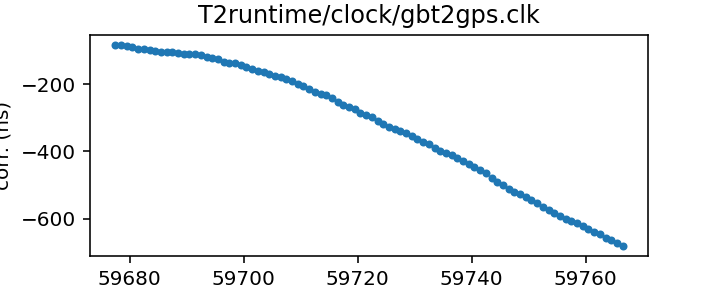
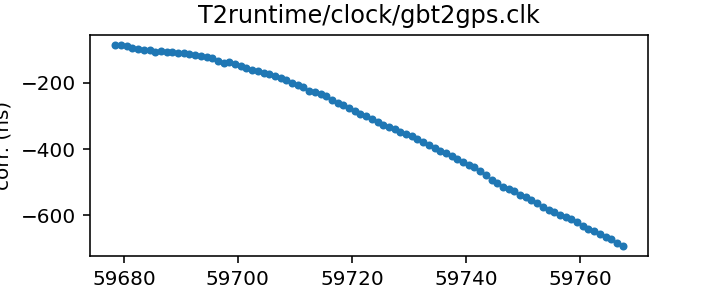
Routine gh-pages update from Github action Fri Jul  8 20:38:18 UTC 2022

diff --git a/status.md b/status.md
@@ -13,17 +13,17 @@ name of each clock file links to a page with more details.
 
 | Name | File | Corrections start | Corrections end | Last check date | Last check result 
 |:--- |:--- | --- | --- | --- |:--- 
-| [GPS to UTC](T2runtime/clock/gps2utc.clk.html) | `T2runtime/clock/gps2utc.clk` | 1993-01-01 MJD 48988.0 | 2022-05-30 MJD 59729.0 | 2022-07-07 | Unchanged 
-| [GPS to UTC (Combined Clock)](T2runtime/clock/gps2utc_cc.clk.html) | `T2runtime/clock/gps2utc_cc.clk` | 1993-01-01 MJD 48988.0 | 2022-05-30 MJD 59729.0 | 2022-07-07 | Unchanged 
-| [GPS to UTC (Corrected)](T2runtime/clock/gps2utc_c0p.clk.html) | `T2runtime/clock/gps2utc_c0p.clk` | 2010-12-29 MJD 55559.0 | 2022-05-30 MJD 59729.0 | 2022-07-07 | Unchanged 
-| [GBT](tempo/clock/time_gbt.dat.html) | `tempo/clock/time_gbt.dat` | 2000-12-31 MJD 51909.5 | 2022-07-06 MJD 59766.5 | 2022-07-07 | Updated 
-| [GBT (TEMPO2 converted from TEMPO)](T2runtime/clock/gbt2gps.clk.html) | `T2runtime/clock/gbt2gps.clk` | 2000-12-31 MJD 51909.5 | 2022-07-06 MJD 59766.5 | 2022-07-07 | Updated 
+| [GPS to UTC](T2runtime/clock/gps2utc.clk.html) | `T2runtime/clock/gps2utc.clk` | 1993-01-01 MJD 48988.0 | 2022-05-30 MJD 59729.0 | 2022-07-08 | Unchanged 
+| [GPS to UTC (Combined Clock)](T2runtime/clock/gps2utc_cc.clk.html) | `T2runtime/clock/gps2utc_cc.clk` | 1993-01-01 MJD 48988.0 | 2022-05-30 MJD 59729.0 | 2022-07-08 | Unchanged 
+| [GPS to UTC (Corrected)](T2runtime/clock/gps2utc_c0p.clk.html) | `T2runtime/clock/gps2utc_c0p.clk` | 2010-12-29 MJD 55559.0 | 2022-05-30 MJD 59729.0 | 2022-07-08 | Unchanged 
+| [GBT](tempo/clock/time_gbt.dat.html) | `tempo/clock/time_gbt.dat` | 2000-12-31 MJD 51909.5 | 2022-07-07 MJD 59767.5 | 2022-07-08 | Updated 
+| [GBT (TEMPO2 converted from TEMPO)](T2runtime/clock/gbt2gps.clk.html) | `T2runtime/clock/gbt2gps.clk` | 2000-12-31 MJD 51909.5 | 2022-07-07 MJD 59767.5 | 2022-07-08 | Updated 
 | [Jodrell Bank](T2runtime/clock/jb2gps.clk.html) | `T2runtime/clock/jb2gps.clk` | 2006-10-13 MJD 54021.4 | 2021-11-03 MJD 59521.0 | 2022-07-06 | Unchanged 
 | [Jodrell Bank Roach](T2runtime/clock/jbroach2jb.clk.html) | `T2runtime/clock/jbroach2jb.clk` | 2006-10-13 MJD 54021.4 | 2018-03-20 MJD 58197.6 | 2022-07-06 | Unchanged 
 | [Jodrell Bank DFB](T2runtime/clock/jbdfb2jb.clk.html) | `T2runtime/clock/jbdfb2jb.clk` | 2006-10-13 MJD 54021.4 | 2017-05-11 MJD 57884.0 | 2022-07-06 | Unchanged 
 | [Meerkat (observatory)](T2runtime/clock/mk2utc_observatory.clk.html) | `T2runtime/clock/mk2utc_observatory.clk` | 2019-01-01 MJD 58484.0 | 2022-06-16 MJD 59747.0 | 2022-07-04 | Unchanged 
-| [Leap seconds](tempo/clock/leap.sec.html) | `tempo/clock/leap.sec` | 1972-07-01 MJD 41499.0 | 2017-01-01 MJD 57754.0 | 2022-07-07 | Unchanged 
-| [UT1 table](tempo/clock/ut1.dat.html) | `tempo/clock/ut1.dat` | 1973-01-02 MJD 41684.0 | 2023-07-08 MJD 60133.0 | 2022-07-07 | Unchanged 
+| [Leap seconds](tempo/clock/leap.sec.html) | `tempo/clock/leap.sec` | 1972-07-01 MJD 41499.0 | 2017-01-01 MJD 57754.0 | 2022-07-08 | Unchanged 
+| [UT1 table](tempo/clock/ut1.dat.html) | `tempo/clock/ut1.dat` | 1973-01-02 MJD 41684.0 | 2023-07-15 MJD 60140.0 | 2022-07-08 | Updated 
 
 
 

diff --git a/T2runtime/clock/gbt2gps.clk.md b/T2runtime/clock/gbt2gps.clk.md
@@ -23,14 +23,13 @@ If questions arise about the conversion, contact Anne Archibald
 | Format | tempo2 |
 | Bogus last correction | False |
 | Clock file start | 2000-12-31 MJD 51909.5 |
-| Clock file end | 2022-07-06 MJD 59766.5 |
+| Clock file end | 2022-07-07 MJD 59767.5 |
 | Update interval (days) | 1 |
-| Last update attempt | 2022-07-07 |
+| Last update attempt | 2022-07-08 |
 | Last update result | Updated |
 
 Log entries from the last few update attempts:
 ```
-2022-07-04 14:55:55.238 - Validation failed: New version of T2runtime/clock/gbt2gps.clk clock corrections differ from old version where they overlap in 1 places
 2022-07-04 14:56:57.961 - Validation failed: New version of T2runtime/clock/gbt2gps.clk clock corrections differ from old version where they overlap in 1 places
 2022-07-04 14:57:39.357 - Validation failed: New version of T2runtime/clock/gbt2gps.clk clock corrections differ from old version where they overlap in 1 places
 2022-07-04 14:57:51.318 - Validation failed: New version of T2runtime/clock/gbt2gps.clk clock corrections differ from old version where they overlap in 1 places
@@ -40,12 +39,13 @@ Log entries from the last few update attempts:
 2022-07-05 20:34:42.133 - Updated
 2022-07-06 20:33:07.983 - Updated
 2022-07-07 20:33:58.840 - Updated
+2022-07-08 20:37:49.859 - Updated
 ```
 [Full log](https://raw.githubusercontent.com/ipta/pulsar-clock-corrections/main/log/T2runtime/clock/gbt2gps.clk.log)
 
 Leading comments from clock file:
 
-    # This file was automatically converted from tempo/clock/time_gbt.dat on 2022-07-07 20:33:58.758
+    # This file was automatically converted from tempo/clock/time_gbt.dat on 2022-07-08 20:37:49.774
 
 
 

diff --git a/tempo/clock/time_gbt.dat.md b/tempo/clock/time_gbt.dat.md
@@ -18,14 +18,13 @@ If questions arise, contact Ryan S. Lynch <rlynch@nrao.edu>.
 | Format | tempo |
 | Bogus last correction | False |
 | Clock file start | 2000-12-31 MJD 51909.5 |
-| Clock file end | 2022-07-06 MJD 59766.5 |
+| Clock file end | 2022-07-07 MJD 59767.5 |
 | Update interval (days) | 1 |
-| Last update attempt | 2022-07-07 |
+| Last update attempt | 2022-07-08 |
 | Last update result | Updated |
 
 Log entries from the last few update attempts:
 ```
-2022-06-29 20:36:06.141 - Updated
 2022-06-30 20:34:24.619 - Updated
 2022-07-01 20:35:04.541 - Updated
 2022-07-02 20:32:17.135 - Validation failed: New version of tempo/clock/time_gbt.dat clock corrections differ from old version where they overlap in 1 places
@@ -35,6 +34,7 @@ Log entries from the last few update attempts:
 2022-07-05 20:34:42.061 - Updated
 2022-07-06 20:33:07.912 - Updated
 2022-07-07 20:33:58.756 - Updated
+2022-07-08 20:37:49.771 - Updated
 ```
 [Full log](https://raw.githubusercontent.com/ipta/pulsar-clock-corrections/main/log/tempo/clock/time_gbt.dat.log)
 

diff --git a/tempo/clock/ut1.dat.md b/tempo/clock/ut1.dat.md
@@ -28,14 +28,13 @@ If there are any questions, contact Anne Archibald
 | File | `tempo/clock/ut1.dat` |
 | Authority | observatory |
 | File start | 1973-01-02 MJD 41684.0 |
-| File end | 2023-07-08 MJD 60133.0 |
+| File end | 2023-07-15 MJD 60140.0 |
 | Update interval (days) | 0 |
-| Last update attempt | 2022-07-07 |
-| Last update result | Unchanged |
+| Last update attempt | 2022-07-08 |
+| Last update result | Updated |
 
 Log entries from the last few update attempts:
 ```
-2022-07-04 14:38:15.392 - Updated
 2022-07-04 14:51:04.905 - Unchanged
 2022-07-04 14:52:37.063 - Unchanged
 2022-07-04 14:55:55.831 - Unchanged
@@ -45,5 +44,6 @@ Log entries from the last few update attempts:
 2022-07-05 20:34:50.275 - Unchanged
 2022-07-06 20:33:19.259 - Unchanged
 2022-07-07 20:34:19.954 - Unchanged
+2022-07-08 20:38:00.250 - Updated
 ```
 [Full log](https://raw.githubusercontent.com/ipta/pulsar-clock-corrections/main/log/tempo/clock/ut1.dat.log)

diff --git a/T2runtime/clock/gps2utc_c0p.clk.md b/T2runtime/clock/gps2utc_c0p.clk.md
@@ -30,12 +30,11 @@ about the BIPM's published corrections, contact <tai@bipm.org>.
 | Clock file start | 2010-12-29 MJD 55559.0 |
 | Clock file end | 2022-05-30 MJD 59729.0 |
 | Update interval (days) | 1 |
-| Last update attempt | 2022-07-07 |
+| Last update attempt | 2022-07-08 |
 | Last update result | Unchanged |
 
 Log entries from the last few update attempts:
 ```
-2022-06-28 20:35:07.154 - Unchanged
 2022-06-29 20:36:05.491 - Unchanged
 2022-06-30 20:34:24.324 - Unchanged
 2022-07-01 20:35:04.166 - Unchanged
@@ -45,6 +44,7 @@ Log entries from the last few update attempts:
 2022-07-05 20:34:41.573 - Unchanged
 2022-07-06 20:33:07.512 - Unchanged
 2022-07-07 20:33:57.655 - Unchanged
+2022-07-08 20:37:48.988 - Unchanged
 ```
 [Full log](https://raw.githubusercontent.com/ipta/pulsar-clock-corrections/main/log/T2runtime/clock/gps2utc_c0p.clk.log)
 

diff --git a/T2runtime/clock/gps2utc_cc.clk.md b/T2runtime/clock/gps2utc_cc.clk.md
@@ -29,12 +29,11 @@ about the BIPM's published corrections, contact <tai@bipm.org>.
 | Clock file start | 1993-01-01 MJD 48988.0 |
 | Clock file end | 2022-05-30 MJD 59729.0 |
 | Update interval (days) | 1 |
-| Last update attempt | 2022-07-07 |
+| Last update attempt | 2022-07-08 |
 | Last update result | Unchanged |
 
 Log entries from the last few update attempts:
 ```
-2022-06-28 20:35:07.143 - Unchanged
 2022-06-29 20:36:05.481 - Unchanged
 2022-06-30 20:34:24.313 - Unchanged
 2022-07-01 20:35:04.155 - Unchanged
@@ -44,6 +43,7 @@ Log entries from the last few update attempts:
 2022-07-05 20:34:41.563 - Unchanged
 2022-07-06 20:33:07.502 - Unchanged
 2022-07-07 20:33:57.642 - Unchanged
+2022-07-08 20:37:48.975 - Unchanged
 ```
 [Full log](https://raw.githubusercontent.com/ipta/pulsar-clock-corrections/main/log/T2runtime/clock/gps2utc_cc.clk.log)
 

diff --git a/T2runtime/clock/gps2utc.clk.md b/T2runtime/clock/gps2utc.clk.md
@@ -32,12 +32,11 @@ about the BIPM's published corrections, contact <tai@bipm.org>.
 | Clock file start | 1993-01-01 MJD 48988.0 |
 | Clock file end | 2022-05-30 MJD 59729.0 |
 | Update interval (days) | 1 |
-| Last update attempt | 2022-07-07 |
+| Last update attempt | 2022-07-08 |
 | Last update result | Unchanged |
 
 Log entries from the last few update attempts:
 ```
-2022-06-28 20:35:07.111 - Unchanged
 2022-06-29 20:36:05.449 - Unchanged
 2022-06-30 20:34:24.281 - Unchanged
 2022-07-01 20:35:04.122 - Unchanged
@@ -47,6 +46,7 @@ Log entries from the last few update attempts:
 2022-07-05 20:34:41.530 - Unchanged
 2022-07-06 20:33:07.471 - Unchanged
 2022-07-07 20:33:57.604 - Unchanged
+2022-07-08 20:37:48.934 - Unchanged
 ```
 [Full log](https://raw.githubusercontent.com/ipta/pulsar-clock-corrections/main/log/T2runtime/clock/gps2utc.clk.log)
 

diff --git a/tempo/clock/leap.sec.md b/tempo/clock/leap.sec.md
@@ -21,12 +21,11 @@ If there are any questions, contact Anne Archibald
 | File start | 1972-07-01 MJD 41499.0 |
 | File end | 2017-01-01 MJD 57754.0 |
 | Update interval (days) | 0 |
-| Last update attempt | 2022-07-07 |
+| Last update attempt | 2022-07-08 |
 | Last update result | Unchanged |
 
 Log entries from the last few update attempts:
 ```
-2022-07-04 14:38:14.688 - Unchanged
 2022-07-04 14:51:04.818 - Unchanged
 2022-07-04 14:52:36.503 - Unchanged
 2022-07-04 14:55:55.266 - Unchanged
@@ -36,5 +35,6 @@ Log entries from the last few update attempts:
 2022-07-05 20:34:42.163 - Unchanged
 2022-07-06 20:33:11.281 - Unchanged
 2022-07-07 20:34:07.934 - Unchanged
+2022-07-08 20:37:49.908 - Unchanged
 ```
 [Full log](https://raw.githubusercontent.com/ipta/pulsar-clock-corrections/main/log/tempo/clock/leap.sec.log)
